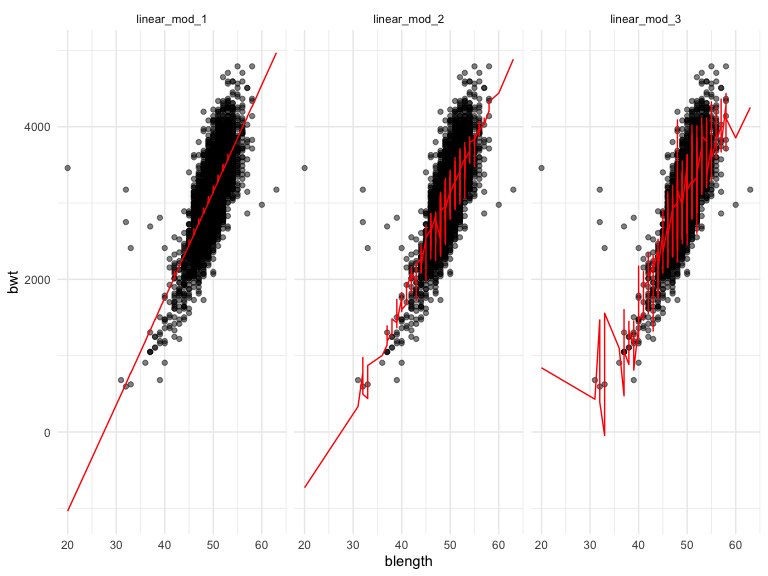
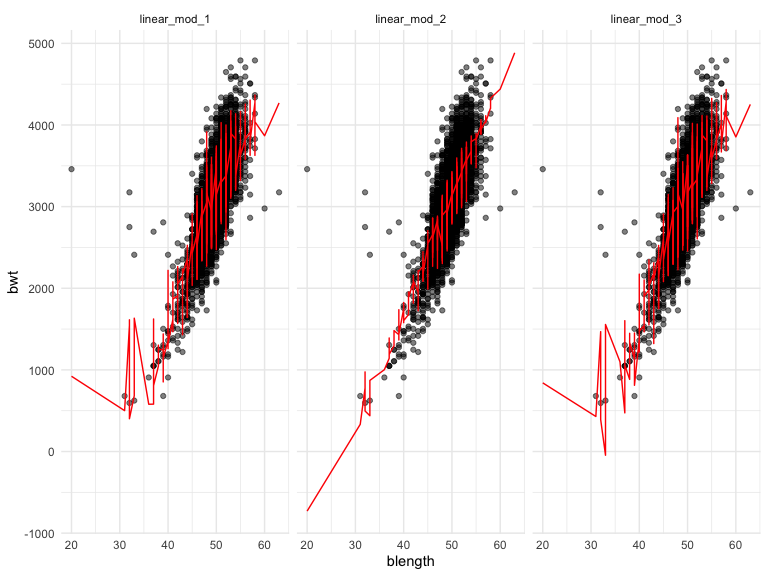
Problem 2 Description Completed

diff --git a/p8105_hw6_yy3421.md b/p8105_hw6_yy3421.md
@@ -214,7 +214,8 @@ boot_results =
 
 The distribution for R.Squared and Log(β1\*β2) are plotted below. We can
 observe a tail for smaller estimates for both two quantities, with a
-heavier tail for estimates of R.squared.
+heavier tail for estimates of R.squared, which could be an indication
+for outliers in the bootstrap samples.
 
 ``` r
 boot_results |> 
@@ -258,9 +259,23 @@ boot_results |>
     ## # A tibble: 1 × 4
     ##   ci_lower_r ci_upper_r ci_lower_beta01 ci_upper_beta01
     ##        <dbl>      <dbl>           <dbl>           <dbl>
-    ## 1      0.889      0.941            2.06            2.14
+    ## 1      0.888      0.941            2.06            2.14
+
+Based on the quantile summary, we can observe an overall high R squared
+with its 2.5% quantile of 0.888 and 97.5% quantile of 0.940. This could
+be an indication of smaller differences between the observed data and
+the fitted values generated from the linear regression model.
+
+Furthermore, it is 95% oissubke tgat the 2.5% quantile of 2.06 and 97.5%
+quantile of 2.14 of Log(β0\*β1) could indicate an positive correlation
+between tmin and tmax.
 
 ## Problem 3
+
+### Data Cleaning
+
+After importing data of birth weight, variables `babysex`, `malform`,
+`frace`, and `mrace` are transformed into factor variables.
 
 ``` r
 birthweight_df = 
@@ -268,6 +283,21 @@ birthweight_df =
     "data/birthweight.csv", na = c("", "NA", "Unknown")
     ) |> 
   mutate(
+    babysex = as.factor(babysex),
+    malform = as.factor(malform),
+    frace = as.factor(frace),
+    mrace = as.factor(mrace)
+  ) 
+```
+
+    ## Rows: 4342 Columns: 20
+    ## ── Column specification ────────────────────────────────────────────────────────
+    ## Delimiter: ","
+    ## dbl (20): babysex, bhead, blength, bwt, delwt, fincome, frace, gaweeks, malf...
+    ## 
+    ## ℹ Use `spec()` to retrieve the full column specification for this data.
+    ## ℹ Specify the column types or set `show_col_types = FALSE` to quiet this message.
+
     babysex = case_match(
       babysex, 
       1 ~ "male",
@@ -279,50 +309,50 @@ birthweight_df =
       0 ~ "absent",
       1 ~ "present"
     ),
-    malform = as.factor(malform)
-  ) |> 
-  select(bwt, blength, bhead, gaweeks, babysex, malform)
-```
 
-    ## Rows: 4342 Columns: 20
-    ## ── Column specification ────────────────────────────────────────────────────────
-    ## Delimiter: ","
-    ## dbl (20): babysex, bhead, blength, bwt, delwt, fincome, frace, gaweeks, malf...
-    ## 
-    ## ℹ Use `spec()` to retrieve the full column specification for this data.
-    ## ℹ Specify the column types or set `show_col_types = FALSE` to quiet this message.
+### Proposed Linear Regression Model
 
-### Propose a linear regression model
+# Before proposing a linear regression model, a linear model using bwt as the outcome and all other variables as predictors is generated below. Through comparing … of all predictors, ….
 
 ``` r
-linear_mod_1 = lm(bwt ~ blength + babysex + malform, data = birthweight_df)
+linear_mod_all = lm(bwt ~ babysex + bhead + blength + bwt + delwt + fincome + frace + gaweeks+malform+menarche+mheight+momage+mrace+parity+pnumlbw+pnumsga+ppbmi+ppwt+smoken+wtgain, data = birthweight_df) |> broom::tidy()
 ```
 
+Based on the data above, baby length, baby sex, and presence of
+malformations are selected as predictors for the first model.
+
 ``` r
-birthweight_df |> 
+birthweight_df_select = birthweight_df |> 
+  select(bwt, blength, bhead, gaweeks, babysex, delwt)
+  
+
+linear_mod_1 = lm(bwt ~ bhead + blength + delwt+ bhead*blength*delwt, data = birthweight_df_select)
+```
+
+# Describe your modeling process and show a plot of model residuals against fitted values – use add_predictions and add_residuals in making this plot.
+
+After generating the first linear regression model, predictions and
+residues for this model are generated `using add_predictions` and
+`add_residues`. The distribution of residues
+
+``` r
+birthweight_df_select |> 
   modelr::add_predictions(linear_mod_1) |> 
   modelr::add_residuals(linear_mod_1) |> 
-  ggplot(aes(x = malform, y = resid)) + geom_violin() 
-```
-
-<img src="p8105_hw6_yy3421_files/figure-gfm/my model residue plot-1.png" width="90%" />
-
-``` r
-birthweight_df |> 
-  modelr::add_predictions(linear_mod_1) |> 
-  modelr::add_residuals(linear_mod_1) |> 
-  ggplot(aes(x = blength, y = bwt)) + 
+  ggplot(aes(x = pred, y = resid)) + 
   geom_point(alpha = .5)+
-  geom_line(aes(y = pred), color = "red")
+  geom_smooth(color = "red", se=FALSE)
 ```
 
-<img src="p8105_hw6_yy3421_files/figure-gfm/my model pred plot-1.png" width="90%" />
+    ## `geom_smooth()` using method = 'gam' and formula = 'y ~ s(x, bs = "cs")'
+
+<img src="p8105_hw6_yy3421_files/figure-gfm/my model residue pred plot-1.png" width="90%" />
 
 ### One using length at birth and gestational age as predictors (main effects only)
 
 ``` r
 linear_mod_2 = 
-  lm(bwt ~ blength + gaweeks, data = birthweight_df) 
+  lm(bwt ~ blength + gaweeks, data = birthweight_df_select) 
 ```
 
 \###One using head circumference, length, sex, and all interactions
@@ -330,11 +360,11 @@ linear_mod_2 =
 
 ``` r
 linear_mod_3 = 
-  lm(bwt ~ bhead* blength + bhead* babysex+ bhead*blength*babysex, data = birthweight_df) 
+  lm(bwt ~ bhead* blength + bhead* babysex+ bhead*blength*babysex, data = birthweight_df_select) 
 ```
 
 ``` r
-birthweight_df |> 
+birthweight_df_select |> 
   gather_predictions(linear_mod_1, linear_mod_2, linear_mod_3) |> 
   mutate(model = fct_inorder(model)) |> 
   ggplot(aes(x = blength, y = bwt)) + 
@@ -347,7 +377,7 @@ birthweight_df |>
 
 ``` r
 cv_df =
-  crossv_mc(birthweight_df, 100) |> 
+  crossv_mc(birthweight_df_select, 100) |> 
   mutate(
     train = map(train, as_tibble),
     test = map(test, as_tibble))
@@ -357,7 +387,7 @@ cv_df =
 cv_df = 
   cv_df |> 
   mutate(
-    mod_1 = map(train, \(df) lm(bwt ~ blength + babysex + malform + bhead*blength*babysex, data = df)),
+    mod_1 = map(train, \(df) lm(bwt ~ bhead + blength + delwt+ bhead*blength*delwt, data = df)),
     mod_2 = map(train, \(df) lm(bwt ~ blength + gaweeks, data = df)),
     mod_3  = map(train, \(df) lm(bwt ~ bhead* blength + bhead* babysex+ bhead*blength*babysex, data = df))
     ) |> 
